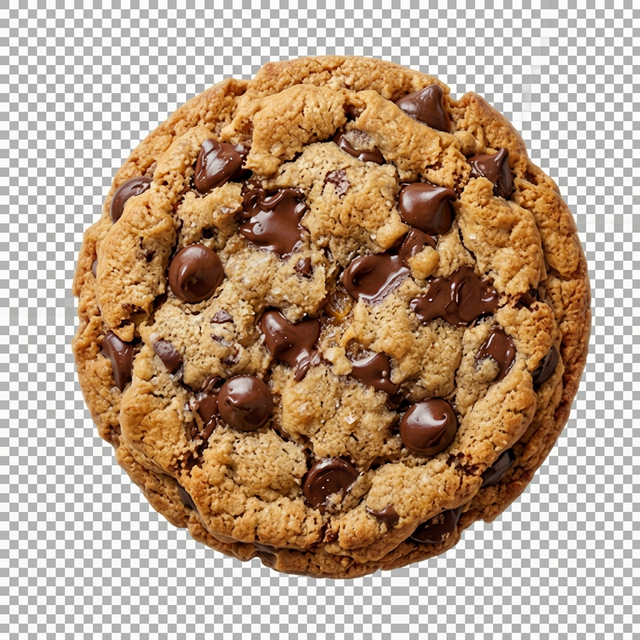
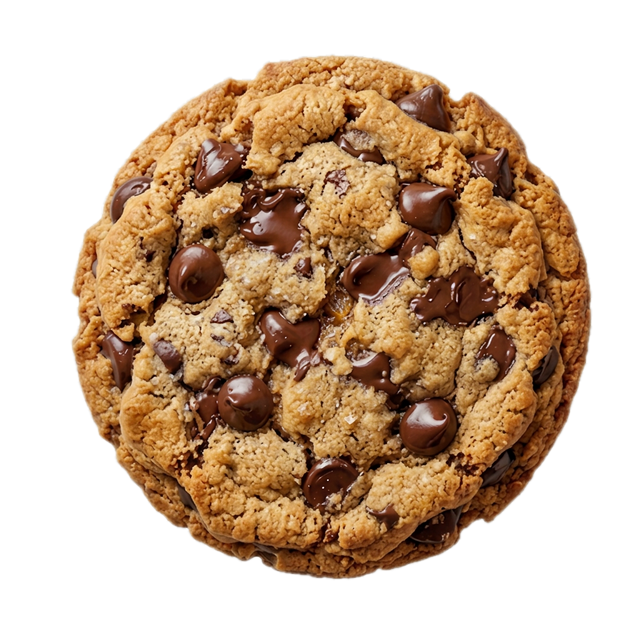
fix: deixa o cookie com fundo transparente e remove imagens duplicadas
Claude-Session: https://claude.ai/code/session_01UfyaC3cKDu2YrcVNHj8PLy

Changed region(s): [[0.0, 0.0, 1.0, 1.0]]

diff --git a/style.css b/style.css
@@ -203,11 +203,6 @@ main {
     height: 300px;
     object-fit: contain;
     filter: drop-shadow(0 0 20px rgba(0, 0, 0, 0.5));
-    mix-blend-mode: multiply;
-    /* Mathematically eliminates white backgrounds on dark themes */
-    clip-path: circle(45%);
-    /* Cropping more of the edges to remove any leftover white pixels */
-    /* Ensuring a clean circular look */
     pointer-events: none;
     /* Let the button handle the click */
 }
